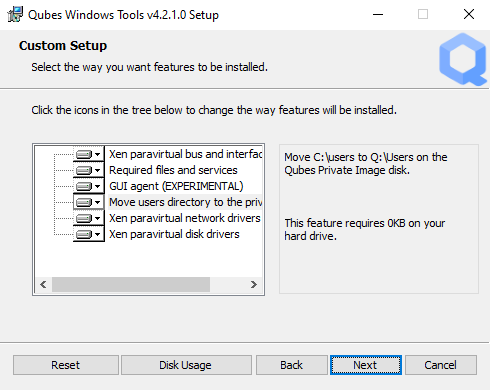
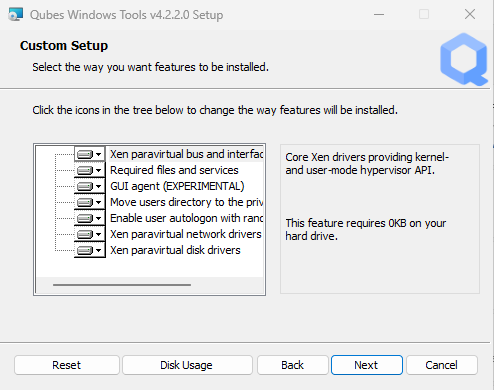
pr#1580 Document autologon feature in QWT https://github.com/QubesOS/qubes-doc/pull/1580

diff --git a/user/templates/windows/qubes-windows-tools.rst b/user/templates/windows/qubes-windows-tools.rst
@@ -13,7 +13,9 @@ Qubes Windows Tools (QWT) are a set of programs and drivers that provide integra
 
 - **Qubes GUI Agent** - video driver and GUI agent that enable the seamless GUI mode that integrates Windows apps onto the common Qubes trusted desktop (currently only for Windows 7 and, in a preliminary experimental version, for Windows 10 and 11).
 
-- **Disable UAC** - User Account Control may interfere with QWT and doesn't really provide any additional benefits in Qubes environment
+- **Configure autologon** - To start a Windows qube without a prompt for user name and password, autologon is defined, using a random hidden password which cannot be extracted from the registry.
+
+- **Disable UAC** - User Account Control may interfere with QWT and doesn't really provide any additional benefits in the Qubes environment
 
 - **Clipboard sender/receiver** - Support for :doc:`secure clipboard copy/paste </user/how-to-guides/how-to-copy-and-paste-text>` between the Windows VM and other AppVMs
 
@@ -42,7 +44,7 @@ Qubes Windows Tools (QWT) are a set of programs and drivers that provide integra
 
 	Due to the security problems described in `QSB-091 <https://github.com/QubesOS/qubes-secpack/blob/master/QSBs/qsb-091-2023.txt>`__, installation of Qubes Windows Tools is currently blocked. Instead, a text file containing a warning is displayed. Currently, it is difficult to estimate the severity of the risks posed by the sources of the Xen drivers used in QWT possibly being compromised, so it was decided not to offer direct QWT installation until this problem could be treated properly. While Windows qubes are, in Qubes, generally not regarded as being very trustworthy, a possible compromise of the Xen drivers used in Qubes Windows Tools might create a risk for Xen or `dom0` and thus be dangerous for Qubes itself. This risk may be small or even non-existent, as stated in QSB-091. If you **understand** this risk and are **willing to take it**, you can still install the previous version of Qubes Windows Tools **for Windows 7**, which will work for Windows 7, but not for Windows 10 or 11.
 
-	**For Windows 10 or 11**, currently, there is no official, final QWT version available for Qubes R4.2, but for Qubes R4.3, a version has been developed and can be used in Qubes R4.2. This version is not subject to the security problems stated above, but it should be noted that its graphics agent is still regarded as experimental and so may show some errors. The new Qubes graphics driver used there is not yet fully compatible with Windows and may cause weird effects. So, in Windows 11 25H2, it will cause all windows to be displayed twice; this can be, at least partially, remedied by moving the second instance to another work surface. Furthermore, trying to display the Windows menu via the keyboard button may result in a tiny, unusable menu. If the driver is installed, despite these risks, and is working at least partially, switching to seamless mode and staying there will probably work quite satisfactorily, but switching to and from non-seamless mode may cause trouble, as well as changing the screen resolution will do there. So, usage of the new Qubes graphics driver should be avoided unless a casual reboot of the Windows VM is acceptable, even if it is partially working. Using the Qubes graphics driver will not provide seamless mode unless the ``qvm-features`` parameter ``gui`` is set to ``1``. To disable the graphics driver, the parameter ``gui`` has to be set to an empty string, while the parameter ``gui-emulated`` has to be set to ``1``.
+	**For Windows 10 or 11**, currently, there is no official, final QWT version available for Qubes R4.2, but for Qubes R4.3, a version has been developed and can be used in Qubes R4.2. This version is not subject to the security problems stated above, but it should be noted that its graphics agent is still regarded as experimental and so may show some errors. The new Qubes graphics driver used there is not yet fully compatible with Windows and may cause weird effects. So, in Windows 11 25H2, it will cause all windows to be displayed twice; this can be, at least partially, remedied by moving the second instance to another workspace. Furthermore, trying to display the Windows menu via the keyboard button may result in a tiny, unusable menu. If the driver is installed, despite these risks, and is working at least partially, switching to seamless mode and staying there will probably work quite satisfactorily, but switching to and from non-seamless mode may cause trouble, as well as changing the screen resolution will do there. So, usage of the new Qubes graphics driver should be avoided unless a casual reboot of the Windows VM is acceptable, even if it is partially working. Using the Qubes graphics driver will not provide seamless mode unless the ``qvm-features`` parameter ``gui`` is set to ``1``. To disable the graphics driver, the parameter ``gui`` has to be set to an empty string, while the parameter ``gui-emulated`` has to be set to ``1``.
 
 **Note**: If you choose to move profiles, drive letter ``Q:`` must be assigned to the secondary (private) disk.
 
@@ -73,6 +75,14 @@ Below is a breakdown of the feature availability depending on the Windows versio
      - y
    * - File sender/receiver
      - y
+     - y
+     - y
+   * - Disable UAC
+     - y
+     - n
+     - n
+   * - Configure autologon
+     - n
      - y
      - y
    * - Clipboard Copy/Paste
@@ -116,9 +126,16 @@ Qubes Windows Tools are open source and are distributed under a GPL license.
 
 
 
+Installing Windows OS as a Qubes VM
+-----------------------------------
+
+
+Please refer to :doc:`this page </user/templates/windows/qubes-windows>` for instructions on how to install Windows in a Qubes VM.
+
+
+
 Preparation
 -----------
-
 
 Before proceeding with the installation, we need to disable the Windows mechanism that allows only signed drivers to be installed, because currently, the drivers provided as part of the Windows Tools are not digitally signed with a publicly recognizable certificate. To do that:
 
@@ -143,11 +160,24 @@ If script execution is blocked, it must be allowed using the following PowerShel
 
 	PS C:\> Set-ExecutionPolicy Unrestricted
 
+**Warning:** It is encouraged to enable autologon for any Windows HVMs that will have Qubes Tools installed in order to avoid possible problems with the Windows logon process, especially if the :kbd:`Ctrl-Alt-Del` requirement is enabled there. To do so, in Windows 7, run the ``netplwiz`` command from the :kbd:`Win-R` "execute" prompt, and uncheck the *Users must enter a user name and password to use this computer* option. In Windows 10 and 11, autologon can be configured later on during Qubes Windows Tools installation.
+
+
 **Warning:** It is recommended to increase the default value of the Windows VM’s ``qrexec_timeout`` property from 60 (seconds) to, for example, 300. During one of the first reboots after Windows Tools installation, Windows user profiles are moved onto the private VM’s virtual disk (private.img), and this operation can take some time. Moving profiles and, later on, updating a Windows installation, is performed in an early boot phase when ``qrexec`` is not yet running, so a timeout may occur with the default value. To change the property use this command in ``dom0``: *(where* ``<VMname>`` *is the name of your Windows VM)*
 
 .. code:: console
 
       [user@dom0 ~]$ qvm-prefs <VMNAME> qrexec_timeout 7200
+
+
+To enable file copy operations to a Windows VM, the ``default_user`` property of this VM should be set to the ``<USERNAME>`` that you use to log in to the Windows VM. This can be done via the following command on a ``dom0`` terminal  (where ``<VMNAME>`` is the name of your Windows VM):
+
+   .. code:: console
+
+	    [user@dom0 ~]$ qvm-prefs <VMNAME> default_user <USERNAME>
+  
+	
+**Warning:** If this property is not set or set to a wrong value, files copied to this VM are stored in the folder :file:`C:\\Windows\\System32\\config\\systemprofile\\Documents\\QubesIncoming\\{<source_VM>}`. If the target VM is an AppVM, this has the consequence that the files are stored in the corresponding TemplateVM and so are lost on AppVM shutdown.
 
 **For Windows 10 and 11:** From the Windows command line, disable hibernation in order to avoid an incomplete Windows shutdown, which may lead to corruption of the VM's disk.
 
@@ -171,17 +201,6 @@ or
       [user@dom0 ~]$ qvm-start <VMNAME> --install-windows-tools
 
 The solution is to disable hibernation in Windows with this command. (That command is included in QWT’s setup, but it’s necessary to run it manually in order to be able to open QWT’s setup ISO/CD-ROM in Windows).
-
-
-
-Installing Windows OS as a Qubes VM
------------------------------------
-
-
-Please refer to :doc:`this page </user/templates/windows/qubes-windows>` for instructions on how to install Windows in a Qubes VM.
-
-**Warning:** It is strongly suggested to enable autologon for any Windows HVMs that will have Qubes Tools installed. To do so, run the ``netplwiz`` command from the :kbd:`Win-R` "execute" prompt, and uncheck the *Users must enter a user name and password to use this computer* option.
-
 
 
 Installing Qubes Windows Tools (QWT) in a Windows VM
@@ -209,7 +228,7 @@ Installing the Qubes Windows Tools on Windows 7, 10, and 11, both as a Standalon
 
    After downloading, copy the file to `dom0` as described in `How to copy from dom0 <https://www.qubes-os.org/doc/how-to-copy-from-dom0/#copying-to-dom0>`__ and install it via ``sudo dnf install PATH_TO_RPMFILE``.
 
-   **Caution:** Installation of one of these QWT versions will remove the other one, if it is installed.
+   **Caution:** Installing one of these QWT versions will remove the other if it is installed.
 
    **Warning:** In Windows 7, the older version of Qubes Windows Tools will be replaced during the next ``dom0`` update by the current dummy version 4.1.70-1. This can be inhibited by appending the line ``exclude=qubes-windows-tools`` to the file ``/etc/dnf/dnf.conf`` in ``dom0``.
 
@@ -225,7 +244,7 @@ Installing the Qubes Windows Tools on Windows 7, 10, and 11, both as a Standalon
 
 3. Install Qubes Windows Tools by starting the setup program (logged in as administrator), optionally selecting the ``Xen PV disk drivers``.
 
-   **Caution:** The Qubes graphics driver is still in experimental development. It may work or not, possibly depending on your hardware. So, in Windows 10 and 11, it may be less risky to install Qubes Windows Tools without selecting this driver, and later on, to try it in a clone of your Windows VM by re-running the installation in change mode.
+   **Caution:** For Windows 7, the installation of the graphics driver in the first step will probably break the Windows qube, causing it to show only a black window and become unresponsive; the graphics driver has to be installed later on in a second step described below. For Windows 10 and 11, the Qubes graphics driver is still in experimental development. It may work or not, possibly depending on your hardware. So, in Windows 10 and 11, it may be less risky to install Qubes Windows Tools without selecting this driver, and later on, to try it in a clone of your Windows VM by re-running the installation in change mode.
 
    **Warning:** The installation of the PV disk drivers may lead Windows to declare that the hardware has changed and that, in consequence, the activation is no longer valid, possibly complaining that the use of the software is no longer lawful. It should be possible to reactivate the software if a valid product key is provided.
 
@@ -259,7 +278,7 @@ Installing the Qubes Windows Tools on Windows 7, 10, and 11, both as a Standalon
 
    - Reboot the VM.
 
-   - It may be necessary to start the GUI manually, by typing `qvm-start-gui VMNAME``` in dom0.
+   - It may be necessary to start the GUI manually, by typing ``qvm-start-gui VMNAME`` in dom0.
 
    - The device “Qubes Video Driver” may show up as deactivated. In this case, you can now activate it again.
 
@@ -267,23 +286,7 @@ Installing the Qubes Windows Tools on Windows 7, 10, and 11, both as a Standalon
 
    - Shut down the Windows VM.
 
-5. Qubes will automatically detect that the tools have been installed in the VM and will set appropriate properties for the VM, such as ``qrexec_installed``, ``guiagent_installed``, and ``default_user``. This can be verified (but is not required) using the ``qvm-prefs`` command (where ``<VMNAME>`` is the name of your Windows VM):
-
-   .. code:: console
-
-         [user@dom0 ~]$ qvm-prefs <VMNAME>
-
-
-   To enable file copy operations to a Windows VM, the ``default_user`` property of this VM should be set to the ``<USERNAME>`` that you use to log in to the Windows VM. This can be done via the following command on a ``dom0`` terminal  (where ``<VMNAME>`` is the name of your Windows VM):
-
-   .. code:: console
-
-	    [user@dom0 ~]$ qvm-prefs <VMNAME> default_user <USERNAME>
-  
-	
-   **Warning:** If this property is not set or set to a wrong value, files copied to this VM are stored in the folder :file:`C:\Windows\System32\config\systemprofile\Documents\QubesIncoming\{<source_VM>}`. If the target VM is an AppVM, this has the consequence that the files are stored in the corresponding TemplateVM and so are lost on AppVM shutdown.
-
-6. It is advisable to set some other parameters in order to enable audio and USB block device access, synchronize the Windows clock with the Qubes clock, and so on:
+5. It is advisable to set some other parameters in order to enable audio and USB block device access, synchronize the Windows clock with the Qubes clock, and so on:
 
    .. code:: console
 
@@ -303,11 +306,11 @@ Installing the Qubes Windows Tools on Windows 7, 10, and 11, both as a Standalon
 
    With the value ``localtime`` the dom0 ``timezone`` will be provided to virtual hardware, effectively setting the Windows clock to that of Qubes. With a digit value (negative or positive) the guest clock will have an offset (in seconds) applied relative to UTC.
 
-7. Reboot Windows. If the VM starts, but does not show any window, then shut down Windows from the Qube manager, wait until it has **really** stopped, and reboot Windows once more.
+6. Reboot Windows. If the VM starts, but does not show any window, then shut down Windows from the Qube manager, wait until it has **really** stopped, and reboot Windows once more.
 
-8. Now the system should be up, with QWT running correctly.
+7. Now the system should be up, with QWT running correctly.
 
-9. **Windows 7 only:** Optionally enable seamless mode on VM startup. This can be done by setting appropriate values in the Windows registry:
+8. **Windows 7 only:** Optionally enable seamless mode on VM startup. This can be done by setting appropriate values in the Windows registry:
 
    - Start the command prompt as administrator, i.e., right click on the Command Prompt icon (All Programs -> Accessories) and choose “Run as administrator”
 
@@ -669,6 +672,8 @@ If there is a drive ``D:`` from this earlier installation of Qubes Windows Tools
 - In the Windows device manager, check if there is still a (probably non-working) Xen PV disk device. If so, uninstall it.
 
 - In the Apps and Features display, check again if the Xen drivers are removed. A Xen Bus Package may remain and cannot be removed, but it does not cause harm. Any other Xen drivers should have disappeared.
+
+In order to avoid Qubes stopping Windows VMs forcefully after QWT was uninstalled, it is advisable to undefine the qrexec control for these VMs. This can be done using the command ``qvm-features <VMNAME> qrexec ""``.
 
 After successful uninstallation of the PV disk drivers, the disks will appear as QEMU ATA disks.
 

diff --git a/user/templates/windows/qubes-windows.rst b/user/templates/windows/qubes-windows.rst
@@ -77,7 +77,7 @@ Have the Windows ISO image (the 64-bit version) downloaded in some qube.
 
 Windows ISOs can be downloaded directly from Microsoft (e.g., `here <https://www.microsoft.com/en-us/software-download/windows10ISO>`__ for Win10), or selected and downloaded via the `Windows Media Creation Tool <https://go.microsoft.com/fwlink/?LinkId=691209>`__. You should, however, regard the downloaded image to be untrustworthy, since there is no reliable way to check that the download was not somehow compromised (see the discussion in issue `Simplify Qubes Windows Tools Installation for R4.1 #7240 <https://github.com/QubesOS/qubes-issues/issues/7240>`__).
 
-Unofficial “debloated” ISOs from projects like reviOS 18 or ameliorated 10 can be found on the net, although obviously you should consider them even “unsafer” than MS provided ISOs. Alternatively, one could download an official ISO and run scripts/apply patches before installation. Some of the “tweaks” might end up being too much depending on the qube’s planned usage, though (eg. no appx functionality in ameliorated Windows - so the installation of Windows Store apps is impossible, even with PowerShell).
+Unofficial “debloated” ISOs from projects like reviOS 18 or ameliorated 10 can be found on the net, although obviously you should consider them even “unsafer” than MS-provided ISOs. Alternatively, one could download an official ISO and run scripts/apply patches before installation. Some of the “tweaks” might end up being too much depending on the qube’s planned usage, though (e.g., no appx functionality in ameliorated Windows - so the installation of Windows Store apps is impossible, even with PowerShell).
 
 Create Windows VM
 =================
@@ -328,7 +328,7 @@ After Windows installation
            /var/log/xen/console/guest-WindowsNew-dm.log
 
 
-At that point you should have a functional and stable Windows VM, although without updates, Xen’s PV drivers nor Qubes integration (see sections :ref:`Windows Update <user/templates/windows/qubes-windows:windows update>` and :ref:`Xen PV drivers and Qubes Windows Tools <user/templates/windows/qubes-windows-tools:xen pv drivers and qubes windows tools>`). It is a good time to clone the VM again.
+At that point, you should have a functional and stable Windows VM, although without updates, Xen’s PV drivers nor Qubes integration (see sections :ref:`Windows Update <user/templates/windows/qubes-windows:windows update>` and :ref:`Xen PV drivers and Qubes Windows Tools <user/templates/windows/qubes-windows-tools:xen pv drivers and qubes windows tools>`). It is a good time to clone the VM again.
 
 
 Installing Qubes Windows Tools
@@ -364,17 +364,19 @@ Windows as a template
 ---------------------
 
 
-As described above, Windows 7, 10, and 11 can be installed as TemplateVM. To have the user data stored in AppVMs depending on this template, the user data has to be stored on a private disk named ``Q:``. If there is already a disk for user data, possibly called ``D:``, it has to be renamed to ``Q:``. Otherwise, this disk has to be created via the Windows ``diskpart`` utility, or the Disk Management administrative function by formatting the qube’s private volume and associating the letter ``Q:`` with it. The volume name is of no importance.
+Windows 7, 10, and 11 can be installed as TemplateVM. To have user data stored in AppVMs based on this template, it must be stored on a private disk named ``Q:``. If there is already a disk for user data, possibly called ``D:``, it has to be renamed to ``Q:``. Otherwise, this disk must be created using the Windows ``diskpart`` utility or the Disk Management administrative tool by formatting the qube’s private volume and assigning the letter ``Q:`` to it. The volume name is of no importance.
 
-Moving the user data is not directly possible under Windows, because the directory ``C:\Users`` is permanently open and thus locked. Qubes Windows Tools provides a function to move this data on Windows reboot when the directory is not yet locked. To use this function, a working version of QWT has to be used (see the documentation on QWT installation). In this case, the option ``Move User Profiles`` has to be selected on QWT installation. Then, the user files are moved to the new disk during the reboot at the end of the installation. After the user data has been moved to `Q:`, be sure not to use the option `Move User Profiles` on subsequent installations of Qubes Windows Tools.
+Moving the user data is not directly possible under Windows, because the directory ``C:\Users`` is permanently open and thus locked. Qubes Windows Tools provides a function to move this data on Windows reboot when the directory is not yet locked. To use this function, a working version of QWT has to be used (see the documentation at the QWT installation). In this case, the option ``Move User Profiles`` for Windows 7 or ``Move users directory to the private image`` for Windows 10 or 11 has to be selected at the QWT installation. Then, the user files are moved to the new disk during the reboot at the end of the installation. After the user data has been moved to ``Q:``, be sure not to use the option `Move User Profiles` on subsequent installations of Qubes Windows Tools.
 
 **Windows 7 only:** This can also be accomplished without QWT installation, avoiding the installation of the Xen PV drivers, if the risk of a compromised version of these drivers, according to QSB-091, is considered too severe. In this case, the file ``relocate_dir.exe`` has to be extracted from the QWT installer kit ``qubes-tools-x64.msi``, which will be shown as the content of the CD-ROM made available by starting the Windows qube with the additional option ``--install-windows-tools`` (see the QWT installation documentation). The installer kit is a specially formatted archive, from which the file ``relocate_dir.exe`` can be extracted using a utility like 7-Zip. The file has to be copied to ``%windir%\system32``, i.e., usually ``C:\Windows\system32``. Furthermore, locate the registry key ``HKLM\SYSTEM\CurrentControlSet\Control\Session Manager``, and add the text ``relocate_dir.exe C:\Users Q:\Users`` as a new line to the ``REG_MULTI_SZ`` value ``\BootExecute`` in this key. On rebooting the Windows qube, the user files will be moved to the disk ``Q:``, and the additional registry entry will be removed, such that this action occurs only once.
+
+**Windows 10 and 11:** Here, you can get the file ``relocate_dir.exe`` from the Windows 7 QWT installer kit (version `4.1.69-1 <https://yum.qubes-os.org/r4.2/current/dom0/fc37/rpm/qubes-windows-tools-4.1.69-1.fc37.noarch.rpm>`__ ). Unpack the file ``qubes-windows-tools-4.1.69-1.fc37.noarch.rpm`` using a utility like 7-Zip repeatedly until you find the file ``qubes-tools-x64.msi``, copy this file somewhere, and unpack it until you finally have the file ``relocate_dir.exe``, and copy this file into the directory ``%windir%\system32``. Then proceed as described for Windows 7. If you have another Windows 10 or 11 TemplateVM with QWT installed and moved user directories, you may instead use the relocation utility ``relocate-dir.exe`` stored in its system directory. Note, however, that its name is slightly different and modify the registry entry accordingly.
 
 AppVMs based on these templates can be created in the normal way by using the Qube Manager or by specifying
 
 .. code:: console
 
-      [user@dom0 ~]$ qvm-create --class=AppVM --template=<VMname>
+      [user@dom0 ~]$ qvm-create --class=AppVM --template=<VMname> WindowsAppVM
 
 
 

diff --git a/user/templates/windows/qubes-windows-migrate.rst b/user/templates/windows/qubes-windows-migrate.rst
@@ -33,6 +33,6 @@ Migration to Qubes R4.3
 -----------------------
 
 
-As the current new QWT version was developed primarily for Qubes R4.3, it is compatible with the version of Qubes. So, a Windows VM running under Qubes R4.2 should be transferable to R4.3 via backup/restore, without the need to remove and reinstall Qubes Windows Tools. At least, for the current pre-release of Qubes R4.3-rc3, this is possible. Currently, however, the new Qubes graphics driver is still somewhat buggy and should be used with caution.
+As the current new QWT version was developed primarily for Qubes R4.3, it is compatible with the version of Qubes. So, a Windows VM running under Qubes R4.2 should be transferable to R4.3 via backup/restore, without the need to remove and reinstall Qubes Windows Tools. At least, for the current pre-release of Qubes R4.3-rc4, this is possible. Currently, however, the new Qubes graphics driver is still somewhat buggy and should be used with caution.
 
-Performing an in-place upgrade of Qubes itself from R4.2.4 to R4.3-rc3 preserves the functionality of Windows 7, 10, and 11 qubes, including Qubes Windows Tools; so there is no need to perform an upgrade of these qubes. If, for Windos 10 or 11, the Qubes graphics driver was installed, its performance and (current) bugginess may change, however.
+Performing an in-place upgrade of Qubes itself from R4.2.4 to R4.3-rc4 preserves the functionality of Windows 7, 10, and 11 qubes, including Qubes Windows Tools; so there is no need to perform an upgrade of these qubes. If, for Windos 10 or 11, the Qubes graphics driver was installed, its performance and (current) bugginess may change, however.
